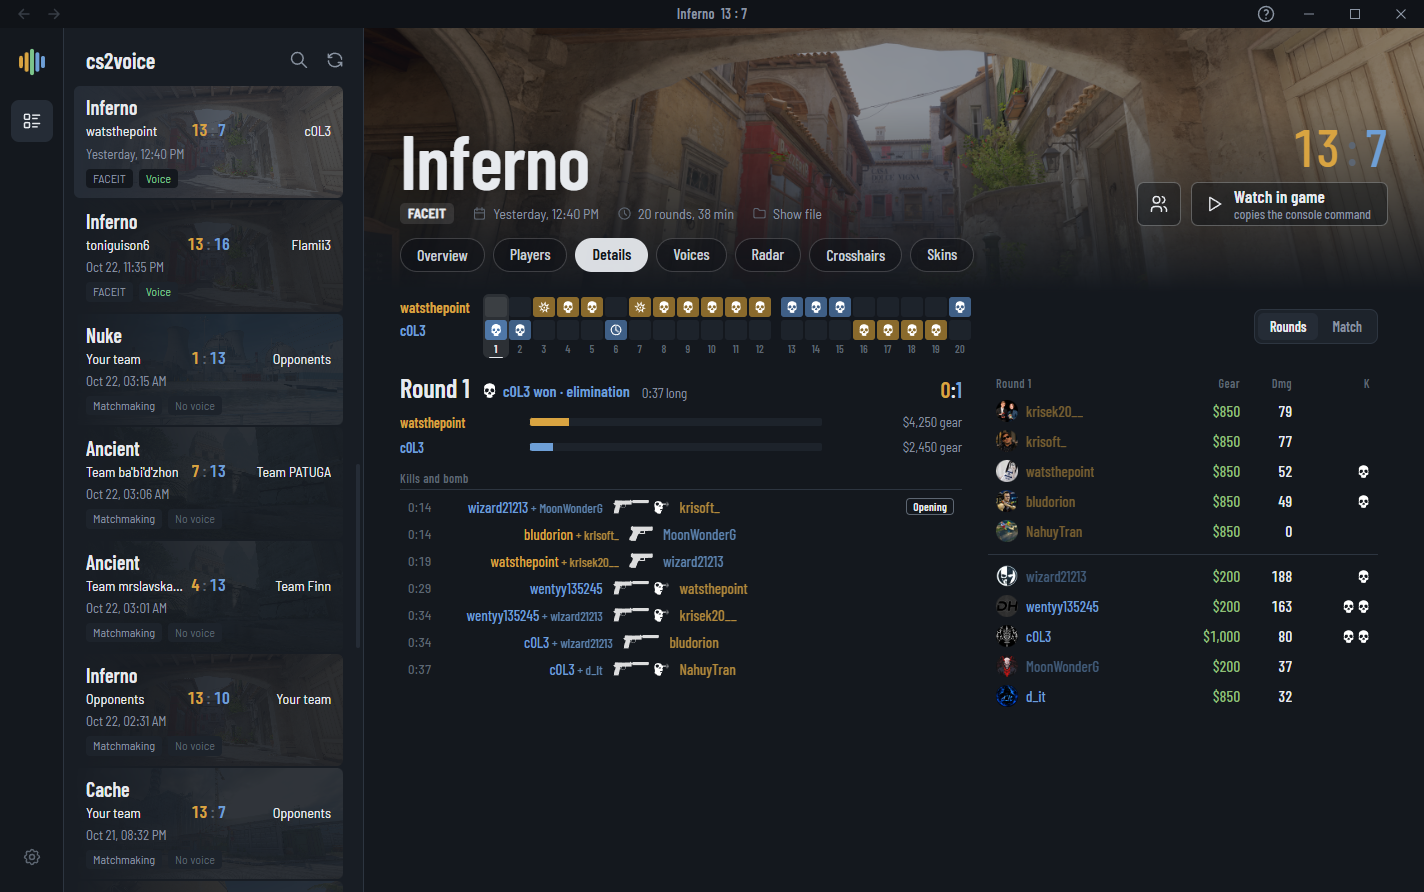
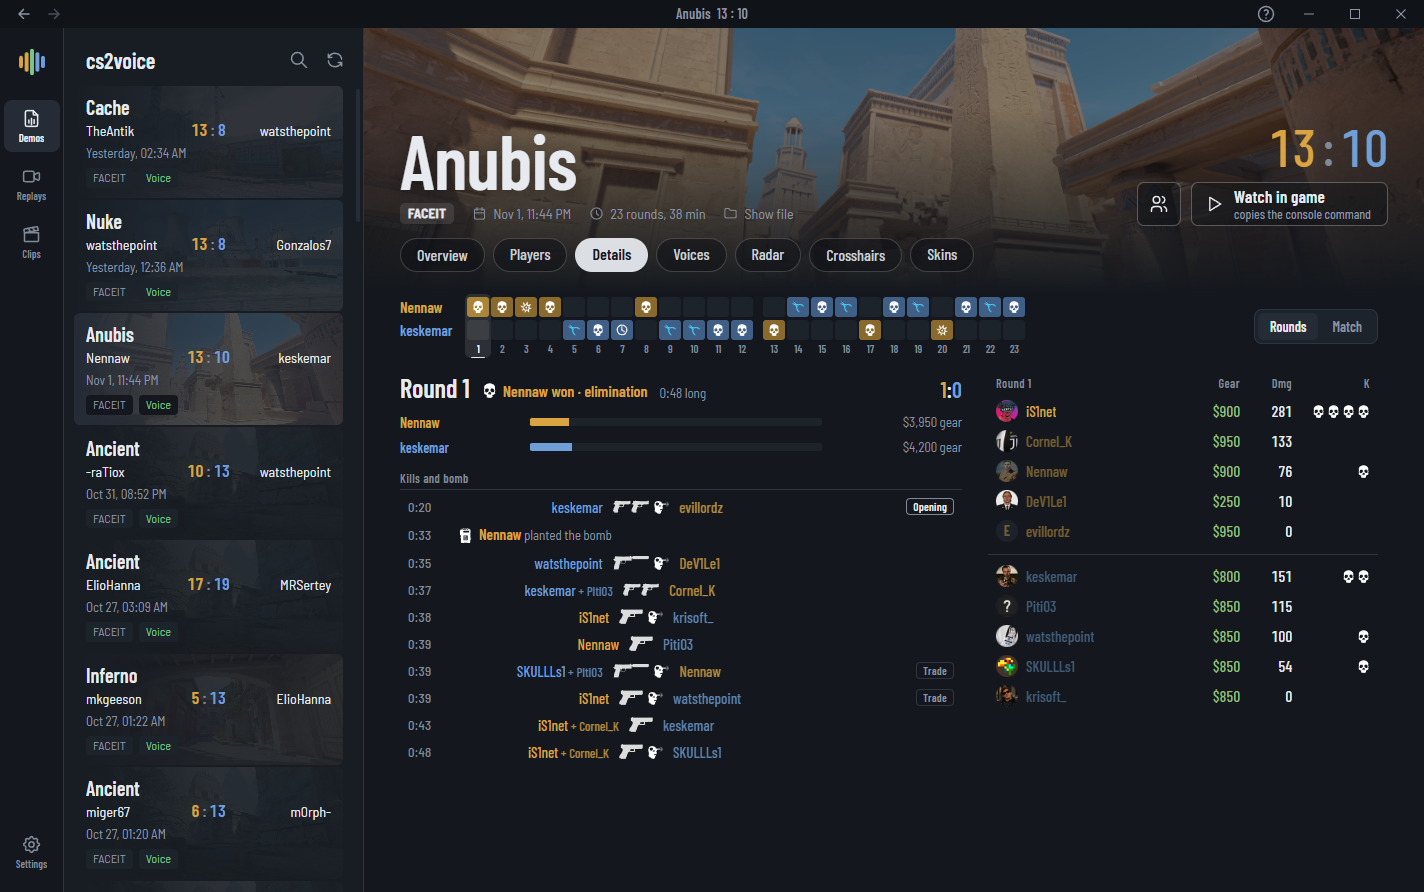
new screenshots

diff --git a/README.md b/README.md
@@ -22,53 +22,61 @@ cs2voice is free and only comes from this repo and its [Microsoft Store page](ht
 
 ## Demos
 
-cs2voice lists demos from the CS2 replays folder, Downloads and any folders you add, in `.dem` and `.dem.zst`, from FACEIT and matchmaking. Each one shows the map, score, teams, date and whether it has voice.
-
-Cleanup finds old demos you have not opened, second copies of the same match and unreadable files, and moves them to the Recycle Bin or deletes them for good. It can ask first or run on its own.
-
-## Tabs
+Finds demos in the CS2 replays folder, Downloads and folders you add, `.dem` and `.dem.zst`, FACEIT and matchmaking. Cleanup moves old and duplicate demos to the Recycle Bin.
 
 ### Overview
 
-Both teams with K/D/A, rating and Steam account year, a button to hear one player or one team, and the match awards. "Watch in game" copies the console command that plays the demo with only the voices you picked.
+Both teams, match awards, and "Watch in game", which copies the console command that plays the demo with only the voices you picked.
 
 ![Overview](docs/overview.png)
 
 ### Players
 
-Rating, K/D, ADR, KAST, accuracy, head accuracy, wallbang and smoke kills, time to damage, reaction time and crosshair placement. Each stat is drawn against how players usually score.
+Every stat drawn against how players usually score.
 
 ![Players](docs/players.png)
 
 ### Details
 
-How each round ended, the kill feed with the game's icons, gear and damage per round, and a match table.
+How each round ended, the kill feed, gear and damage.
 
 ![Details](docs/details.png)
 
 ### Voices
 
-One round at a time. Each player has a lane with their speech drawn by loudness, with kills, deaths and the bomb marked. Play everyone, one team or one player, skip silence, change the speed and cut a clip.
+Every player's voice, round by round, next to the kills. Play everyone, one team or one player, skip silence, cut a clip.
 
 ![Voices](docs/voices.png)
 
 ### Radar
 
-A 2D replay of the match: positions, view directions, grenades with their flight paths, smokes, fires, the bomb, damage and kills. Click a grenade to see where it was thrown from, how it was thrown (jumpthrow, run, crouch) and a `setpos`/`setang` line to copy.
+2D replay with grenades, smokes, fires and the bomb. Click a grenade to copy a `setpos` line to where it was thrown from.
 
 ![Radar](docs/radar.png)
 
 ### Crosshairs
 
-Every player's crosshair drawn at game size, with its settings and a copy button for the share code.
+Every player's crosshair at game size, with a copy button for the share code.
 
 ![Crosshairs](docs/crosshairs.png)
 
 ### Skins
 
-Every player's skins with wear, float, StatTrak and stickers, split by T and CT side. Click one to see it large.
+Every player's skins with wear, float, StatTrak and stickers.
 
 ![Skins](docs/skins.png)
+
+## Replays
+
+Steam's background recording of your match, lined up with the demo's rounds and kills. Keep a copy before Steam records over it.
+
+![Replays](docs/replays.png)
+
+## Clips
+
+Cut a moment into an MP4 sized for Discord (20, 50 or 500 MB) and paste it straight in.
+
+![Clips](docs/clip.png)
 
 ## Privacy
 
